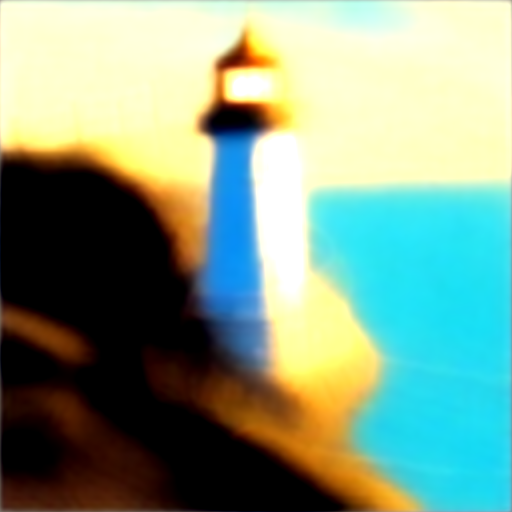
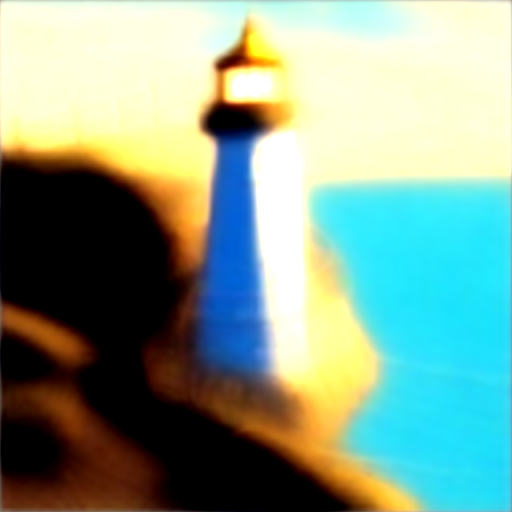
added image_hom when training

diff --git a/models/aerialbooth_noisy/pipeline.py b/models/aerialbooth_noisy/pipeline.py
@@ -175,7 +175,7 @@ class ImagicStableDiffusionPipeline(DiffusionPipeline):
         diffusion_model_learning_rate: float = 2e-4,
         text_embedding_optimization_steps: int = 500,
         model_fine_tuning_optimization_steps: int = 1000,
-        # image_hom: Union[torch.FloatTensor, PIL.Image.Image] = None,
+        image_hom: Union[torch.FloatTensor, PIL.Image.Image] = None,
         **kwargs,
     ):
         
@@ -216,7 +216,7 @@ class ImagicStableDiffusionPipeline(DiffusionPipeline):
             )
 
         
-        prompt_modified = 'aerial view, ' + prompt
+        prompt_modified = prompt
         text_input_modified = self.tokenizer(
             prompt_modified,
             padding="max_length",
@@ -255,6 +255,15 @@ class ImagicStableDiffusionPipeline(DiffusionPipeline):
         image_latents = init_latent_image_dist.sample(generator=generator)
         image_latents = 0.18215 * image_latents
         self.image_latents = image_latents
+
+        if isinstance(image_hom, PIL.Image.Image):
+            image_hom = preprocess(image_hom)    
+        latents_dtype = text_embeddings.dtype
+        image_hom = image_hom.to(device=self.device, dtype=latents_dtype)
+        init_latent_image_dist_hom = self.vae.encode(image_hom).latent_dist
+        image_latents_hom = init_latent_image_dist_hom.sample(generator=generator)
+        image_latents_hom = 0.18215 * image_latents_hom
+        self.image_latents_hom = image_latents_hom
 
         progress_bar = tqdm(range(text_embedding_optimization_steps), disable=not accelerator.is_local_main_process)
         progress_bar.set_description("Steps")
@@ -381,6 +390,41 @@ class ImagicStableDiffusionPipeline(DiffusionPipeline):
         progress_bar.set_description("Steps")
 
         #Text embedding optimization 
+        
+        logger.info("First optimizing the text embedding to better reconstruct the homography image")
+        for _ in range(int(text_embedding_optimization_steps/2)):
+            with accelerator.accumulate(text_embeddings_hom):
+                # Sample noise that we'll add to the latents
+                noise = torch.randn(image_latents.shape).to(image_latents.device)
+                timesteps = torch.randint(1000, (1,), device=image_latents.device)
+
+                # Add noise to the latents according to the noise magnitude at each timestep
+                # (this is the forward diffusion process)
+                noisy_latents = self.scheduler.add_noise(image_latents_hom, noise, timesteps)
+
+                # Predict the noise residual
+                noise_pred = self.unet(noisy_latents, timesteps, text_embeddings_hom).sample
+
+                loss = F.mse_loss(noise_pred, noise, reduction="none").mean([1, 2, 3]).mean()
+                accelerator.backward(loss)
+
+                optimizer.step()
+                optimizer.zero_grad()
+
+            # Checks if the accelerator has performed an optimization step behind the scenes
+            if accelerator.sync_gradients:
+                progress_bar.update(1)
+                global_step += 1
+
+            logs = {"loss": loss.detach().item()}  # , "lr": lr_scheduler.get_last_lr()[0]}
+            progress_bar.set_postfix(**logs)
+            accelerator.log(logs, step=global_step)
+
+        accelerator.wait_for_everyone()
+
+        text_embeddings_hom.requires_grad_(False)
+
+        # Homography view fine-tuning
 
         optimizer = torch.optim.Adam(
             self.unet.parameters(),  # only optimize unet
@@ -388,8 +432,39 @@ class ImagicStableDiffusionPipeline(DiffusionPipeline):
         )
         
         progress_bar = tqdm(range(model_fine_tuning_optimization_steps), disable=not accelerator.is_local_main_process)
+
+        logger.info("Next fine tuning the entire model to generate the homography image from the frontal image")
+        for _ in range(int(model_fine_tuning_optimization_steps/2)):
+            with accelerator.accumulate(self.unet.parameters()):
+                # Sample noise that we'll add to the latents
+                noise = torch.randn(image_latents.shape).to(image_latents.device)
+                timesteps = torch.randint(1000, (1,), device=image_latents.device)
+
+                # Add noise to the latents according to the noise magnitude at each timestep
+                # (this is the forward diffusion process)
+                noisy_latents_hom = self.scheduler.add_noise(image_latents_hom, noise, timesteps)
+
+                # Predict the noise residual
+                noise_pred = self.unet(noisy_latents_hom, timesteps, text_embeddings_hom).sample
+                
+                loss = F.mse_loss(noise_pred, noise, reduction="none").mean([1, 2, 3]).mean()
+                accelerator.backward(loss)
+
+                optimizer.step()
+                optimizer.zero_grad()
+
+            if accelerator.sync_gradients:
+                progress_bar.update(1)
+                global_step += 1
+
+            logs = {"loss": loss.detach().item()}  # , "lr": lr_scheduler.get_last_lr()[0]}
+            progress_bar.set_postfix(**logs)
+            accelerator.log(logs, step=global_step)
+
+        accelerator.wait_for_everyone()
         
         # Saving text embeddings variables for inferencing
+        self.text_embeddings_hom = text_embeddings_hom
         self.text_embeddings_front_opt = text_embeddings
         self.text_embeddings_aerial = text_embeddings_aerial
     

diff --git a/train_aerialbooth_no_guidance.py b/train_aerialbooth_no_guidance.py
@@ -23,8 +23,7 @@ def run_diffusion_experiment(init_image_path, output_dir, prompt, zero_output_pa
     generator = torch.Generator(device).manual_seed(0)
 
     init_image = Image.open(init_image_path).convert("RGB").resize((512, 512))
-    image_hom = Image.open(zero_output_path)
-    #image_hom = Image.open(zero_output_path).convert("RGB").resize((512, 512))
+    image_hom = Image.open(zero_output_path).convert("RGB").resize((512, 512))
     
     # res = pipe.train(
     #     prompt,
@@ -39,8 +38,8 @@ def run_diffusion_experiment(init_image_path, output_dir, prompt, zero_output_pa
         image=init_image,
         generator=generator, 
         text_embedding_optimization_steps=1000,
-        model_fine_tuning_optimization_steps=500
-        # image_hom=image_hom
+        model_fine_tuning_optimization_steps=500,
+        image_hom=image_hom
     )
     
     os.makedirs(output_dir, exist_ok=True)
